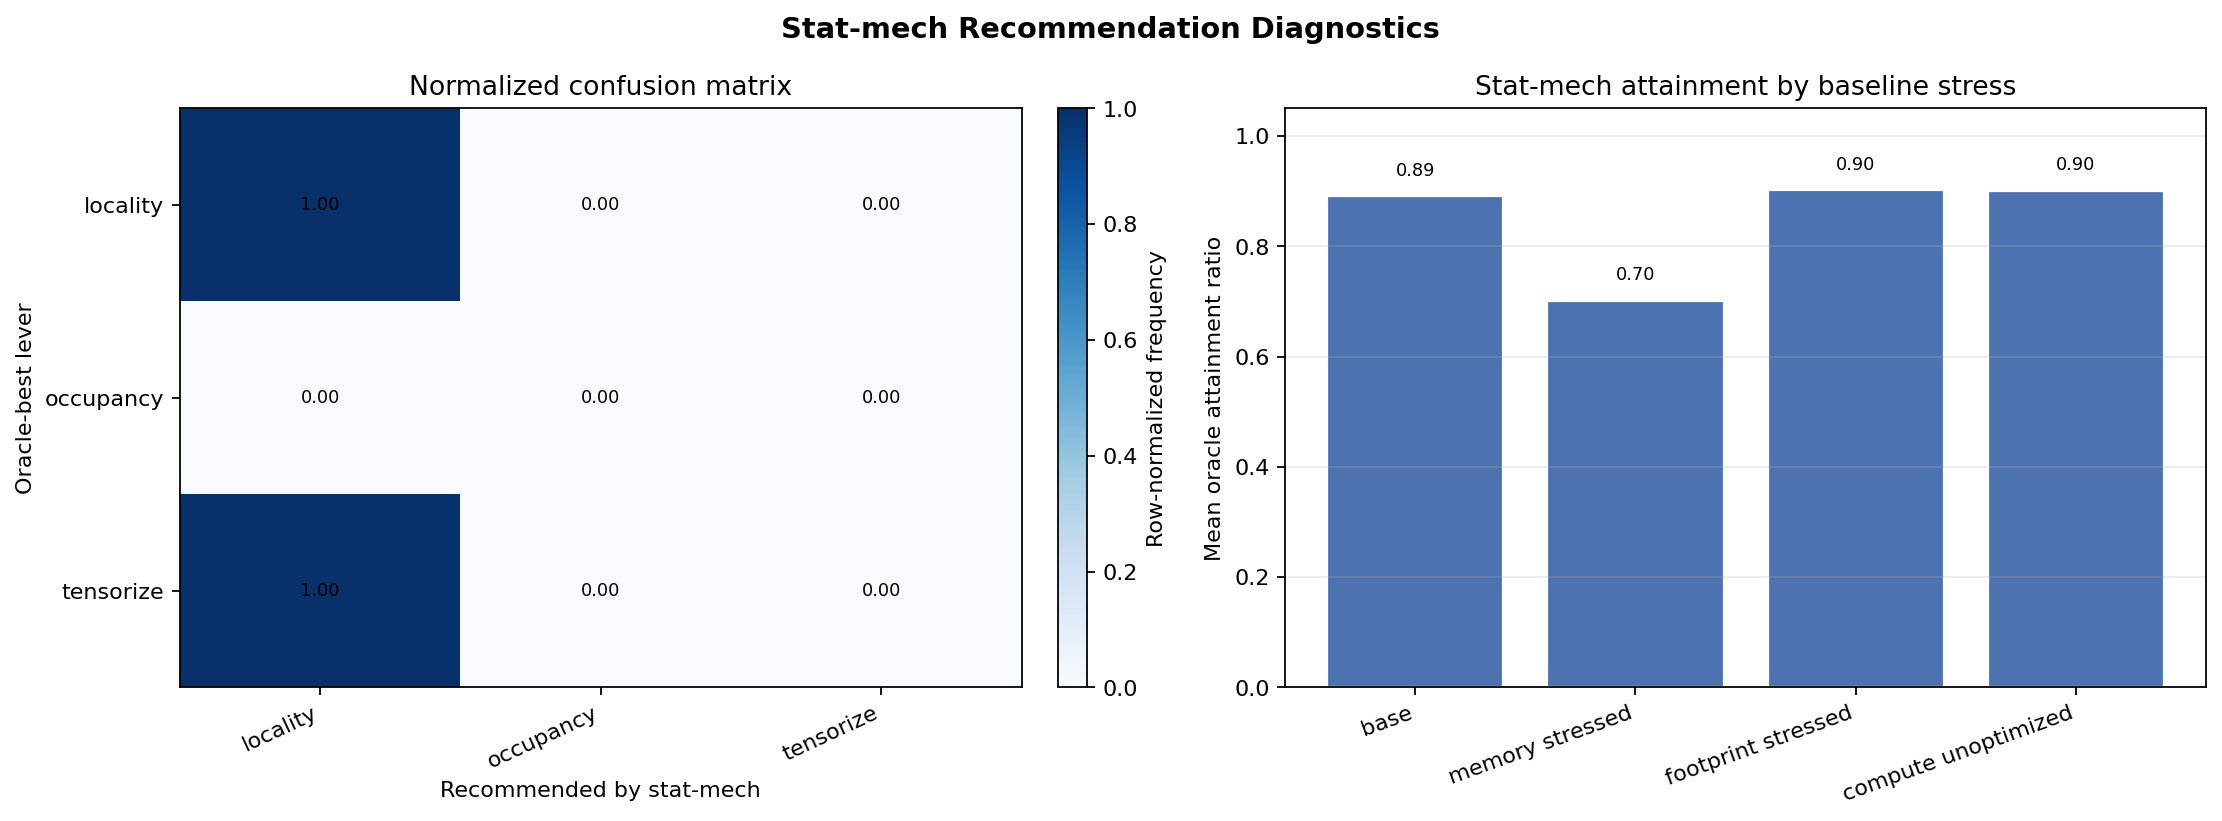
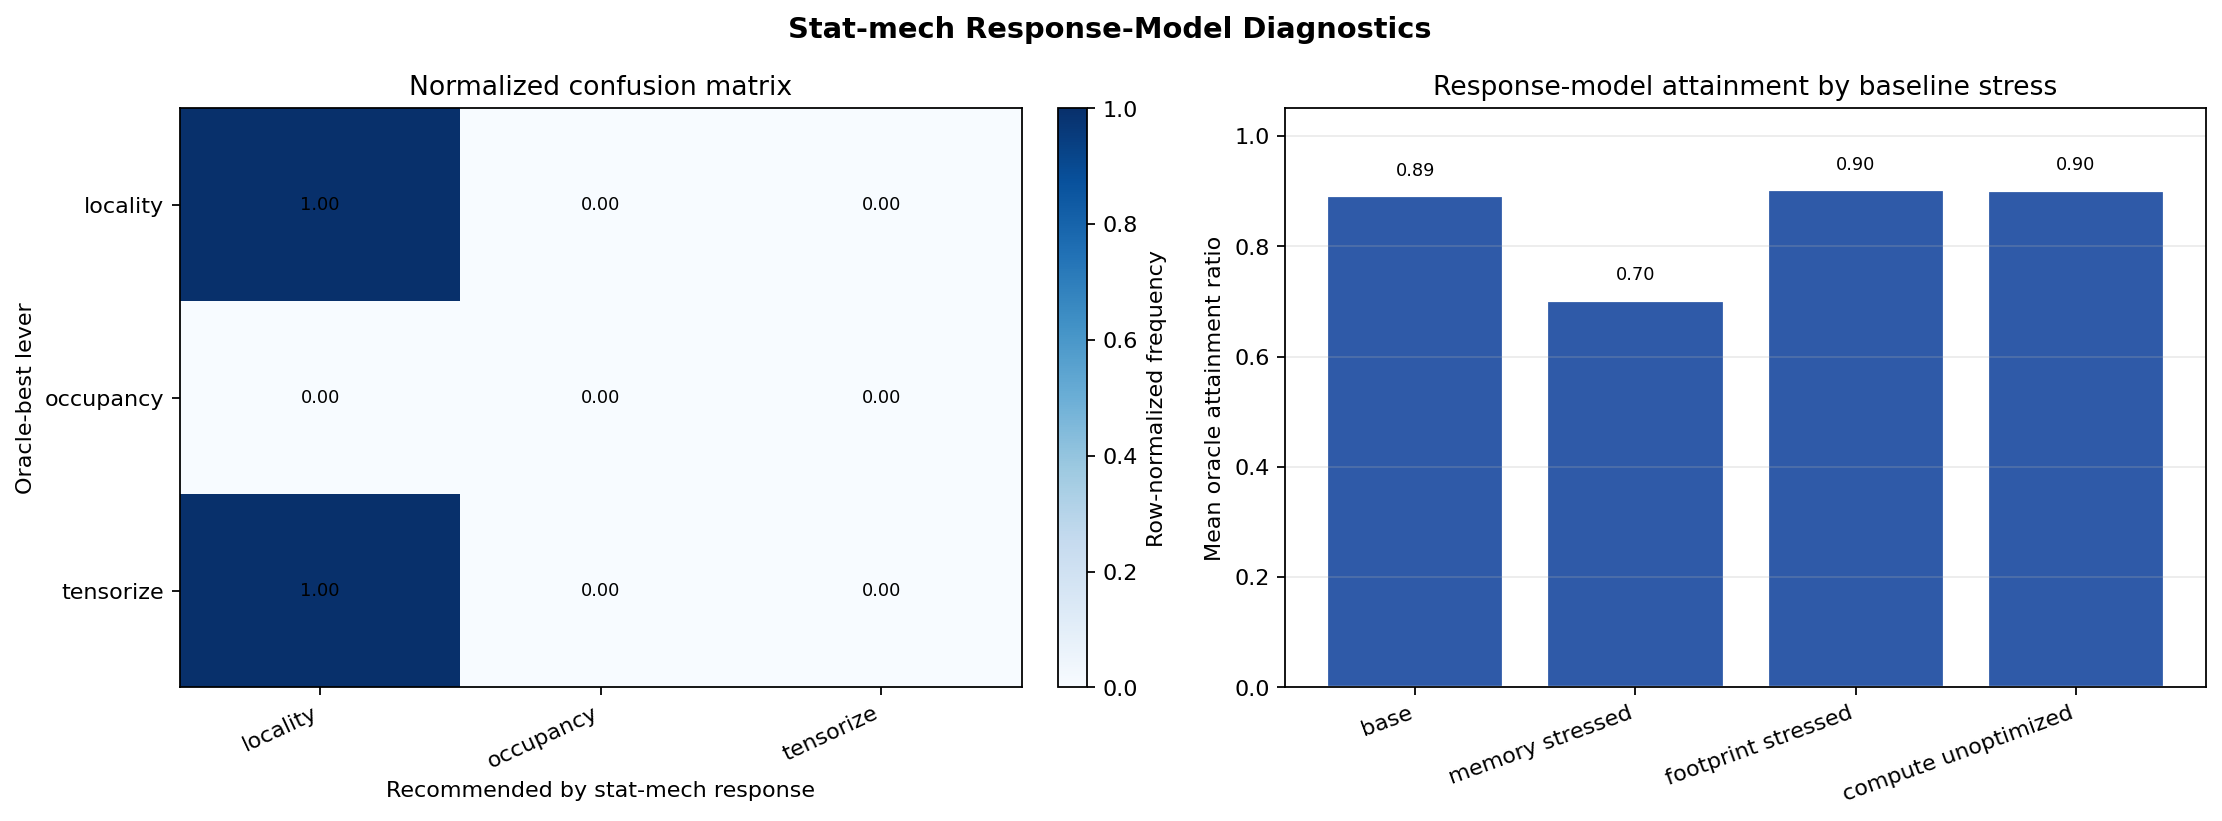
Add stat-mech response model

diff --git a/experiments/simulator_validation/02_intervention_recommendation.py b/experiments/simulator_validation/02_intervention_recommendation.py
@@ -46,12 +46,14 @@ from gpu_statmech.gpusim_recommendation import (  # noqa: E402
     INTERVENTION_KEYS,
     RecommendationBaseline,
     apply_intervention,
+    fit_statmech_response_model,
     generate_recommendation_baselines,
     oracle_attainment_ratio,
     recommend_intervention_occupancy_only,
     recommend_intervention_raw_counter,
     recommend_intervention_roofline,
     recommend_intervention_statmech,
+    recommend_intervention_statmech_response,
     statmech_intervention_scores,
 )
 from gpu_statmech.partition_function import H100_MEMORY_LEVELS, H100_SM_CONFIG  # noqa: E402
@@ -62,6 +64,7 @@ FIGURES = Path(__file__).parent / "figures"
 FIGURES.mkdir(exist_ok=True)
 
 METHOD_ORDER = (
+    "stat_mech_response",
     "stat_mech",
     "raw_counter",
     "roofline",
@@ -69,6 +72,7 @@ METHOD_ORDER = (
     "random",
 )
 METHOD_LABELS = {
+    "stat_mech_response": "stat-mech response",
     "stat_mech": "stat-mech",
     "raw_counter": "raw counters",
     "roofline": "roofline",
@@ -76,6 +80,7 @@ METHOD_LABELS = {
     "random": "random",
 }
 METHOD_COLORS = {
+    "stat_mech_response": "#2f5aa8",
     "stat_mech": "#4c72b0",
     "raw_counter": "#dd8452",
     "roofline": "#55a868",
@@ -168,7 +173,6 @@ def _all_profiles_for_experiment(
 
 def _method_recommendations(analysis: object, *, rng: np.random.Generator) -> dict[str, str]:
     return {
-        "stat_mech": recommend_intervention_statmech(analysis),
         "raw_counter": recommend_intervention_raw_counter(analysis),
         "roofline": recommend_intervention_roofline(analysis),
         "occupancy_only": recommend_intervention_occupancy_only(analysis),
@@ -228,13 +232,13 @@ def _plot_oracle_attainment(records: list[dict[str, object]], *, seed: int) -> P
 
 def _plot_statmech_supporting(records: list[dict[str, object]]) -> Path:
     fig, axes = plt.subplots(1, 2, figsize=(14, 5.2))
-    fig.suptitle("Stat-mech Recommendation Diagnostics", fontsize=13, fontweight="bold")
+    fig.suptitle("Stat-mech Response-Model Diagnostics", fontsize=13, fontweight="bold")
 
     lever_to_idx = {lever: idx for idx, lever in enumerate(INTERVENTION_KEYS)}
     confusion = np.zeros((len(INTERVENTION_KEYS), len(INTERVENTION_KEYS)), dtype=float)
     for record in records:
         oracle_idx = lever_to_idx[str(record["oracle_lever"])]
-        pred_idx = lever_to_idx[str(record["recommended"]["stat_mech"])]
+        pred_idx = lever_to_idx[str(record["recommended"]["stat_mech_response"])]
         confusion[oracle_idx, pred_idx] += 1.0
 
     row_totals = confusion.sum(axis=1, keepdims=True)
@@ -246,7 +250,7 @@ def _plot_statmech_supporting(records: list[dict[str, object]]) -> Path:
     ax.set_xticklabels([LEVER_LABELS[k] for k in INTERVENTION_KEYS], rotation=25, ha="right")
     ax.set_yticks(np.arange(len(INTERVENTION_KEYS)))
     ax.set_yticklabels([LEVER_LABELS[k] for k in INTERVENTION_KEYS])
-    ax.set_xlabel("Recommended by stat-mech")
+    ax.set_xlabel("Recommended by stat-mech response")
     ax.set_ylabel("Oracle-best lever")
     ax.set_title("Normalized confusion matrix")
     for row in range(normalized.shape[0]):
@@ -259,18 +263,22 @@ def _plot_statmech_supporting(records: list[dict[str, object]]) -> Path:
     stress_groups = []
     stress_means = []
     for stress in BASELINE_STRESS_KEYS:
-        vals = [float(record["attainment"]["stat_mech"]) for record in records if record["stress"] == stress]
+        vals = [
+            float(record["attainment"]["stat_mech_response"])
+            for record in records
+            if record["stress"] == stress
+        ]
         if not vals:
             continue
         stress_groups.append(STRESS_LABELS[stress])
         stress_means.append(float(np.mean(vals)))
     xpos = np.arange(len(stress_groups))
-    ax.bar(xpos, stress_means, color=METHOD_COLORS["stat_mech"], edgecolor="white")
+    ax.bar(xpos, stress_means, color=METHOD_COLORS["stat_mech_response"], edgecolor="white")
     ax.set_xticks(xpos)
     ax.set_xticklabels(stress_groups, rotation=20, ha="right")
     ax.set_ylim(0.0, 1.05)
     ax.set_ylabel("Mean oracle attainment ratio")
-    ax.set_title("Stat-mech attainment by baseline stress")
+    ax.set_title("Response-model attainment by baseline stress")
     ax.grid(True, axis="y", alpha=0.25)
     for idx, mean in enumerate(stress_means):
         ax.text(idx, mean + 0.03, f"{mean:.2f}", ha="center", va="bottom", fontsize=8)
@@ -322,26 +330,19 @@ def main() -> int:
             skipped += 1
             continue
 
-        recommended = _method_recommendations(baseline_analysis, rng=rng)
-        stat_scores = statmech_intervention_scores(baseline_analysis)
-        attainment = {
-            method: oracle_attainment_ratio(float(gains[lever]), oracle_gain)
-            for method, lever in recommended.items()
-        }
         records.append(
             {
                 "family": baseline.family,
                 "stress": baseline.stress,
                 "baseline_name": baseline.profile.name,
+                "analysis": baseline_analysis,
                 "baseline_eta": baseline_analysis.eta_hw,
                 "oracle_lever": oracle_lever,
                 "oracle_gain": oracle_gain,
                 "gains": gains,
-                "recommended": recommended,
-                "attainment": attainment,
                 "dominant_phase": baseline_analysis.dominant_phase,
                 "dominant_bottleneck": baseline_analysis.bottleneck.dominant_source,
-                "stat_scores": stat_scores,
+                "stat_scores": statmech_intervention_scores(baseline_analysis),
             }
         )
 
@@ -349,12 +350,33 @@ def main() -> int:
         print("No actionable baselines found; all interventions had zero or negative gain.", file=sys.stderr)
         return 2
 
+    # Fit the response model on all families except the held-out family.
+    for family in sorted({str(record["family"]) for record in records}):
+        train = [record for record in records if record["family"] != family]
+        holdout = [record for record in records if record["family"] == family]
+        params = fit_statmech_response_model(
+            [record["analysis"] for record in train],
+            [record["gains"] for record in train],
+        )
+        for record in holdout:
+            record["response_params"] = params
+            record["recommended"] = {
+                "stat_mech_response": recommend_intervention_statmech_response(record["analysis"], params),
+                "stat_mech": recommend_intervention_statmech(record["analysis"]),
+                **_method_recommendations(record["analysis"], rng=rng),
+            }
+            record["attainment"] = {
+                method: oracle_attainment_ratio(float(record["gains"][lever]), float(record["oracle_gain"]))
+                for method, lever in record["recommended"].items()
+            }
+
     print("=" * 72)
     print("Experiment 02 — Simulator Intervention Recommendation")
     print("=" * 72)
     print(f"GPU preset          : {args.gpu}")
     print(f"Kernel families     : {', '.join(profile.name for profile in families)}")
     print(f"Actionable baselines: {len(records)} / {len(baselines)} (skipped {skipped})")
+    print("Stat-mech response  : leave-one-family-out fit")
 
     oracle_by_stress: dict[str, list[str]] = defaultdict(list)
     for record in records:

diff --git a/src/gpu_statmech/gpusim_recommendation.py b/src/gpu_statmech/gpusim_recommendation.py
@@ -13,6 +13,8 @@ from __future__ import annotations
 from dataclasses import dataclass, replace
 from typing import Mapping
 
+import numpy as np
+
 from .gpusim_driver import GpuSimKernelProfile
 
 
@@ -38,6 +40,23 @@ class RecommendationBaseline:
     @property
     def key(self) -> str:
         return f"{self.family}:{self.stress}"
+
+
+@dataclass(frozen=True)
+class StatMechResponseParams:
+    """Interpretable lever-response coefficients for first-order gain prediction."""
+
+    locality_feed: float = 1.0
+    locality_memory_pressure: float = 1.0
+    locality_movement: float = 1.0
+
+    occupancy_dependency: float = 1.0
+    occupancy_resource: float = 1.0
+    occupancy_issue_gap: float = 1.0
+
+    tensorize_scalar_math: float = 1.0
+    tensorize_tensor_gap: float = 1.0
+    tensorize_productive_surplus: float = 1.0
 
 
 def _renormalize_instr_mix(instr_mix: Mapping[str, float]) -> dict[str, float]:
@@ -212,6 +231,123 @@ def oracle_attainment_ratio(chosen_gain: float, oracle_gain: float) -> float:
     if oracle_gain <= 1e-12:
         return 1.0
     return max(0.0, min(chosen_gain / oracle_gain, 1.0))
+
+
+def _response_features(analysis: object) -> dict[str, np.ndarray]:
+    observables = analysis.observables
+    families = observables.mean_warp_state_family_fractions
+    instr_mix = observables.mean_instr_mix
+    bottleneck = analysis.bottleneck
+
+    locality = np.asarray(
+        [
+            max(0.0, 1.0 - analysis.thermo_state.memory_feed_efficiency),
+            0.5 * float(families.get("memory", 0.0))
+            + 0.5 * float(observables.mean_memory_stall_fraction),
+            0.5 * float(instr_mix.get("mem", 0.0))
+            + 0.5 * float(bottleneck.dram_movement_fraction),
+        ],
+        dtype=float,
+    )
+    occupancy = np.asarray(
+        [
+            float(families.get("dependency", 0.0))
+            + 0.5 * float(families.get("sync_frontend", 0.0)),
+            0.5 * float(observables.mean_reg_utilization)
+            + 0.5 * float(observables.mean_smem_utilization),
+            max(0.0, 1.0 - float(observables.mean_issue_activity)),
+        ],
+        dtype=float,
+    )
+    tensorize = np.asarray(
+        [
+            float(instr_mix.get("fp32", 0.0)) + 0.5 * float(instr_mix.get("fp16", 0.0)),
+            max(0.0, 1.0 - float(instr_mix.get("tensor_core", 0.0))),
+            max(0.0, float(families.get("productive", 0.0)) - float(families.get("memory", 0.0)))
+            * float(observables.mean_issue_activity),
+        ],
+        dtype=float,
+    )
+    return {
+        "locality": locality,
+        "occupancy": occupancy,
+        "tensorize": tensorize,
+    }
+
+
+def fit_statmech_response_model(
+    analyses: list[object],
+    realized_gains: list[dict[str, float]],
+    *,
+    ridge: float = 1e-3,
+) -> StatMechResponseParams:
+    """
+    Fit first-order intervention effect sizes from simulator counterfactuals.
+
+    Each lever is fit independently against the clipped positive gain so the
+    learned coefficients remain interpretable as "how much upside this signal
+    typically converts into efficiency improvement".
+    """
+
+    if len(analyses) != len(realized_gains):
+        raise ValueError("analyses and realized_gains must have the same length")
+    if not analyses:
+        return StatMechResponseParams()
+
+    fitted: dict[str, np.ndarray] = {}
+    for lever in INTERVENTION_KEYS:
+        X = np.vstack([_response_features(analysis)[lever] for analysis in analyses])
+        y = np.asarray([max(0.0, float(gains.get(lever, 0.0))) for gains in realized_gains], dtype=float)
+        xtx = X.T @ X + ridge * np.eye(X.shape[1], dtype=float)
+        xty = X.T @ y
+        coeff = np.linalg.solve(xtx, xty)
+        fitted[lever] = np.clip(coeff, 0.0, None)
+
+    return StatMechResponseParams(
+        locality_feed=float(fitted["locality"][0]),
+        locality_memory_pressure=float(fitted["locality"][1]),
+        locality_movement=float(fitted["locality"][2]),
+        occupancy_dependency=float(fitted["occupancy"][0]),
+        occupancy_resource=float(fitted["occupancy"][1]),
+        occupancy_issue_gap=float(fitted["occupancy"][2]),
+        tensorize_scalar_math=float(fitted["tensorize"][0]),
+        tensorize_tensor_gap=float(fitted["tensorize"][1]),
+        tensorize_productive_surplus=float(fitted["tensorize"][2]),
+    )
+
+
+def predict_intervention_gains_statmech(
+    analysis: object,
+    params: StatMechResponseParams,
+) -> dict[str, float]:
+    """Predict per-lever efficiency gain from the inferred baseline state."""
+
+    features = _response_features(analysis)
+    return {
+        "locality": float(
+            params.locality_feed * features["locality"][0]
+            + params.locality_memory_pressure * features["locality"][1]
+            + params.locality_movement * features["locality"][2]
+        ),
+        "occupancy": float(
+            params.occupancy_dependency * features["occupancy"][0]
+            + params.occupancy_resource * features["occupancy"][1]
+            + params.occupancy_issue_gap * features["occupancy"][2]
+        ),
+        "tensorize": float(
+            params.tensorize_scalar_math * features["tensorize"][0]
+            + params.tensorize_tensor_gap * features["tensorize"][1]
+            + params.tensorize_productive_surplus * features["tensorize"][2]
+        ),
+    }
+
+
+def recommend_intervention_statmech_response(
+    analysis: object,
+    params: StatMechResponseParams,
+) -> str:
+    gains = predict_intervention_gains_statmech(analysis, params)
+    return max(INTERVENTION_KEYS, key=lambda lever: (gains[lever], -INTERVENTION_KEYS.index(lever)))
 
 
 def statmech_intervention_scores(analysis: object) -> dict[str, float]:

diff --git a/tests/test_gpusim_recommendation.py b/tests/test_gpusim_recommendation.py
@@ -5,11 +5,14 @@ import pytest
 from gpu_statmech.gpusim_driver import GpuSimKernelProfile
 from gpu_statmech.gpusim_recommendation import (
     apply_intervention,
+    fit_statmech_response_model,
     generate_recommendation_baselines,
     oracle_attainment_ratio,
+    predict_intervention_gains_statmech,
     recommend_intervention_raw_counter,
     recommend_intervention_roofline,
     recommend_intervention_statmech,
+    recommend_intervention_statmech_response,
 )
 
 
@@ -167,6 +170,23 @@ def test_raw_counter_and_roofline_heuristics_map_to_expected_levers():
     )
     assert recommend_intervention_raw_counter(analysis) == "tensorize"
     assert recommend_intervention_roofline(analysis) == "tensorize"
+
+
+def test_response_model_predicts_larger_gain_for_memory_pressure():
+    analysis = _analysis(
+        families={"productive": 0.2, "dependency": 0.1, "memory": 0.55, "sync_frontend": 0.05, "idle": 0.1},
+        mean_memory_stall_fraction=0.45,
+        dram_movement_fraction=0.35,
+        memory_feed_efficiency=0.25,
+    )
+    params = fit_statmech_response_model(
+        [analysis],
+        [{"locality": 0.12, "occupancy": 0.01, "tensorize": 0.02}],
+    )
+    gains = predict_intervention_gains_statmech(analysis, params)
+    assert gains["locality"] > gains["occupancy"]
+    assert gains["locality"] > gains["tensorize"]
+    assert recommend_intervention_statmech_response(analysis, params) == "locality"
 
 
 @pytest.mark.parametrize(

diff --git a/experimental_log.md b/experimental_log.md
@@ -192,12 +192,16 @@
 - On the current H100 simulator sweep:
   - actionable baselines: `18 / 20`
   - mean oracle attainment:
+    - `stat-mech response`: `0.865`
     - `stat-mech`: `0.865`
     - `raw counters`: `0.870`
     - `roofline`: `0.759`
     - `occupancy only`: `0.001`
-    - `random`: `0.728`
+    - `random`: `0.717`
 - Interpretation:
+  - the first leave-one-family-out response model is now implemented; it predicts
+    per-lever gains from interpretable headroom features rather than using only a
+    hand-scored bottleneck table
   - the thermodynamic recommender is already substantially better than the
     weak baselines (`roofline`, `occupancy only`, `random`)
   - the strongest simple baseline is still the raw counter-family heuristic,
@@ -205,5 +209,5 @@
     suite
   - that is a useful gap, not a contradiction: the simulator interventions are
     still tightly aligned to the same coarse families used in the raw-counter
-    policy, so the next improvement is to make the thermodynamic mapping more
+    policy, so the next improvement is to make the response features more
     discriminative than simple family-majority rules

diff --git a/experiments/simulator_validation/README.md b/experiments/simulator_validation/README.md
@@ -37,6 +37,7 @@ families, then asks a decision question:
 
 The script compares:
 
+- stat-mech response model (leave-one-family-out fit)
 - stat-mech recommendation
 - raw counter-family heuristic
 - roofline-style heuristic
